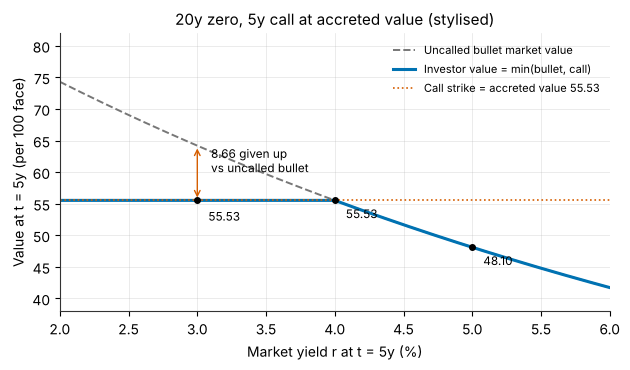
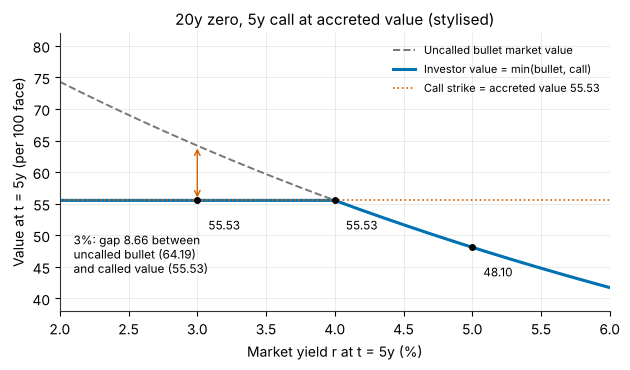
WIP: diagrams in progress
Claude-Session: https://claude.ai/code/session_011jxtZvfPgVEi4xYQRFGwx1

diff --git a/.anchor/session-state.md b/.anchor/session-state.md
@@ -1,24 +1,21 @@
 # Session state (auto-saved — last known reality)
 
-_Updated: 2026-10-19 19:35:49_  ·  branch: `claude/quant-deck-cpp-training-0rix4z`
+_Updated: 2026-10-19 19:37:26_  ·  branch: `claude/quant-deck-cpp-training-0rix4z`
 
 ## Uncommitted changes
 ```
  M .anchor/session-state.md
- M anki-deskstrat-rates-credit/media/08_coding_numerics__v3_19_calibration_surface.png
- M anki-deskstrat-rates-credit/media/08_coding_numerics__v3_1_aad_reverse_sweep.png
 ```
 
 Diff stat:
 ```
- .anchor/session-state.md                           |  25 +--------------------
- ..._coding_numerics__v3_19_calibration_surface.png | Bin 67157 -> 64549 bytes
- .../08_coding_numerics__v3_1_aad_reverse_sweep.png | Bin 47153 -> 41372 bytes
- 3 files changed, 1 insertion(+), 24 deletions(-)
+ .anchor/session-state.md | 25 +------------------------
+ 1 file changed, 1 insertion(+), 24 deletions(-)
 ```
 
 ## Recent commits
 ```
+7eaa6f2 Add numerical methods diagrams; fix antithetic variance ratio at equal cost
 89506d5 WIP: diagrams in progress
 93e95b5 Add XVA and repo diagrams
 faa503d WIP: diagrams in progress
@@ -26,7 +23,6 @@ faa503d WIP: diagrams in progress
 2b5ba42 Fact-check fixes: C++ module 6
 c127387 Add foundations probability/fixed-income diagrams
 460309a Add foundations derivatives/stats diagrams
-1ad8934 Add markets scenarios diagrams; fact-check fixes options and structured top-ups
 ```
 
 ## Resume
